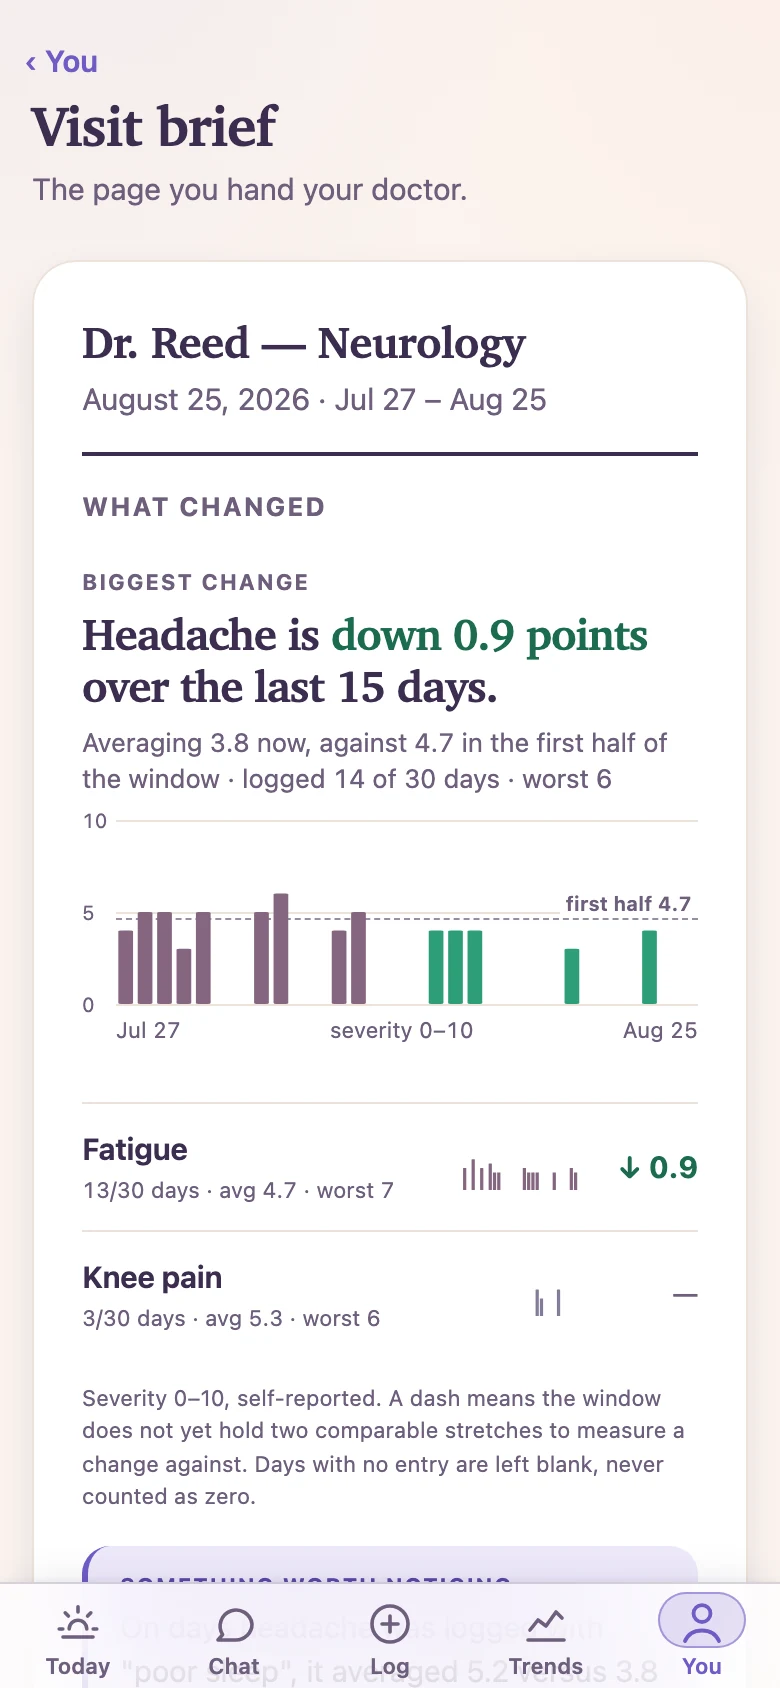
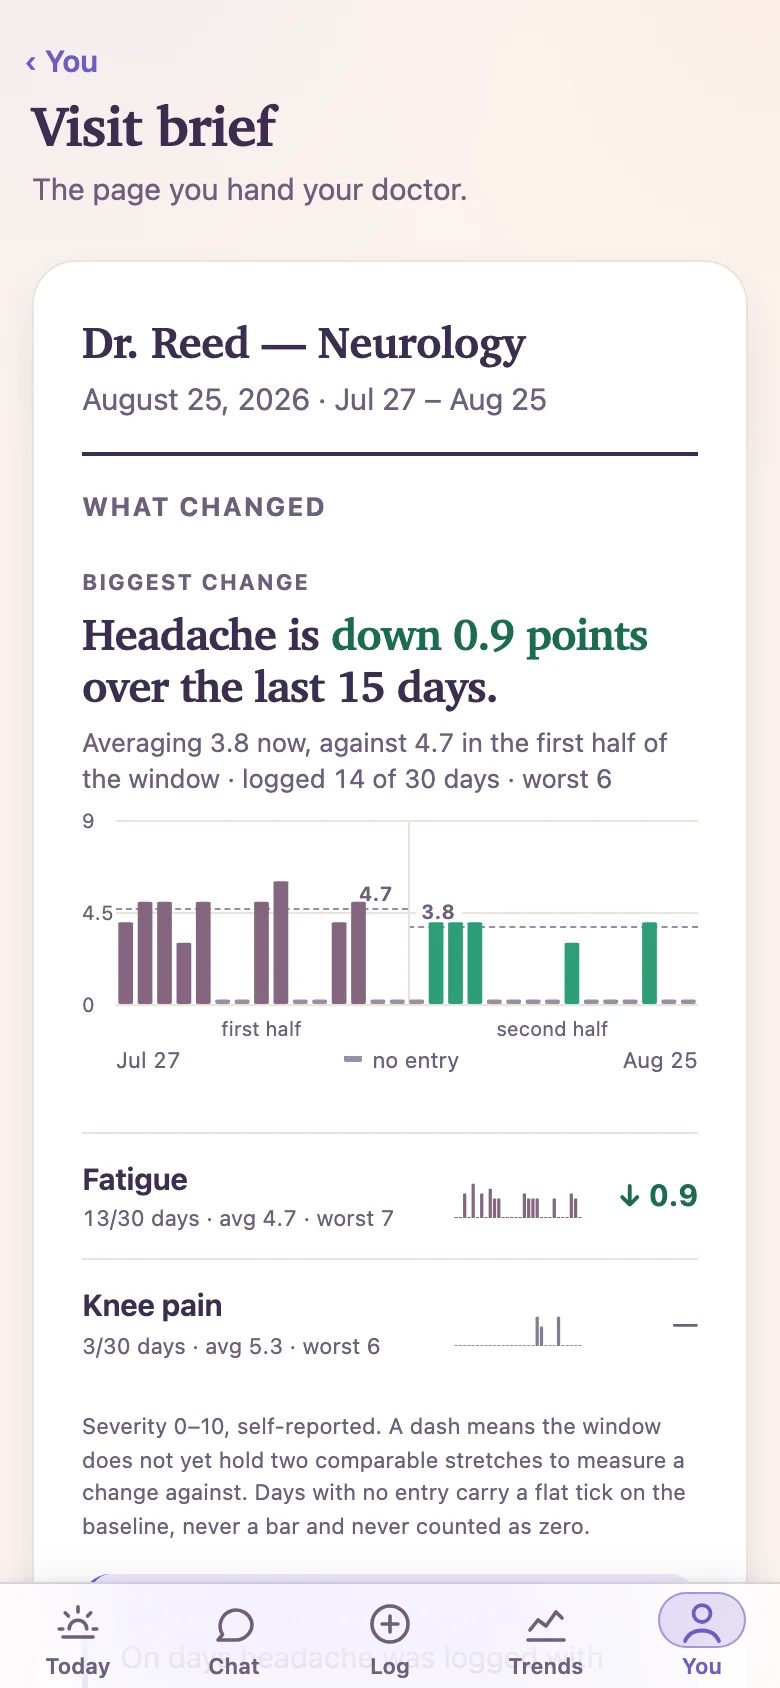
Rowan: re-shoot the brief and log, and correct the alt the chart outgrew
The visit brief's chart no longer runs one dashed rule at the FIRST half's
average across the whole window. Each half now draws its own — 4.7 then 3.8 —
over its own days, with a divider at the halfway point and a baseline tick on
days nobody logged, so the drop the headline states is a step you can see
rather than one you reconstruct. The axis is scaled from the record's worst day
instead of pinned at 10, which is what left 40% of the plot empty.

The alt still described the retired single line, which made it a claim about a
picture that had already changed under it. Rewritten to the marks actually in
the frame, and verified by reading the shipped webp back: "down 0.9 points",
4.7 over the purple half, 3.8 over the green one.

log/log-dark: the record tally read "days noted· 2 entries" — the separator's
leading space sat inside an inline-block, where a leading space is at the start
of its own line box and is collapsed.

Only these three of the fourteen shots moved; the rig re-rendered the rest
identically. ?v= bumped, because a cached webp is exactly as stale as no
re-shoot at all.

diff --git a/rowan/index.html b/rowan/index.html
@@ -852,23 +852,23 @@
 
       <div class="screens-grid">
         <div class="screen-card">
-          <div class="screen-frame"><img class="shot-img" src="shots/home.webp?v=20260825b" data-light="shots/home.webp?v=20260825b" data-dark="shots/home-dark.webp?v=20260825b" alt="Rowan's Today screen — a greeting, the next appointment, and today's medications" width="780" height="1688" loading="lazy"></div>
+          <div class="screen-frame"><img class="shot-img" src="shots/home.webp?v=20260826a" data-light="shots/home.webp?v=20260826a" data-dark="shots/home-dark.webp?v=20260826a" alt="Rowan's Today screen — a greeting, the next appointment, and today's medications" width="780" height="1688" loading="lazy"></div>
           <div class="screen-label"><strong>Today</strong>What's next, and what's due</div>
         </div>
         <div class="screen-card">
-          <div class="screen-frame"><img class="shot-img" src="shots/chat.webp?v=20260825b" data-light="shots/chat.webp?v=20260825b" data-dark="shots/chat-dark.webp?v=20260825b" alt="Rowan's chat screen with an AI companion indicator" width="780" height="1688" loading="lazy"></div>
+          <div class="screen-frame"><img class="shot-img" src="shots/chat.webp?v=20260826a" data-light="shots/chat.webp?v=20260826a" data-dark="shots/chat-dark.webp?v=20260826a" alt="Rowan's chat screen with an AI companion indicator" width="780" height="1688" loading="lazy"></div>
           <div class="screen-label"><strong>Chat</strong>Where a day becomes a log entry</div>
         </div>
         <div class="screen-card">
-          <div class="screen-frame"><img class="shot-img" src="shots/log.webp?v=20260825b" data-light="shots/log.webp?v=20260825b" data-dark="shots/log-dark.webp?v=20260825b" alt="Rowan's quick log — pick a symptom, choose a severity band, and add what might matter" width="780" height="1688" loading="lazy"></div>
+          <div class="screen-frame"><img class="shot-img" src="shots/log.webp?v=20260826a" data-light="shots/log.webp?v=20260826a" data-dark="shots/log-dark.webp?v=20260826a" alt="Rowan's quick log — pick a symptom, choose a severity band, and add what might matter" width="780" height="1688" loading="lazy"></div>
           <div class="screen-label"><strong>Quick log</strong>Thirty seconds, if you'd rather tap</div>
         </div>
         <div class="screen-card">
-          <div class="screen-frame"><img class="shot-img" src="shots/trends.webp?v=20260825b" data-light="shots/trends.webp?v=20260825b" data-dark="shots/trends-dark.webp?v=20260825b" alt="Rowan's trends screen — a per-day bar chart of headache severity with a 7-day average line over it, and a noticed pattern underneath" width="780" height="1688" loading="lazy"></div>
+          <div class="screen-frame"><img class="shot-img" src="shots/trends.webp?v=20260826a" data-light="shots/trends.webp?v=20260826a" data-dark="shots/trends-dark.webp?v=20260826a" alt="Rowan's trends screen — a per-day bar chart of headache severity with a 7-day average line over it, and a noticed pattern underneath" width="780" height="1688" loading="lazy"></div>
           <div class="screen-label"><strong>Trends</strong>A pattern, not a diagnosis</div>
         </div>
         <div class="screen-card">
-          <div class="screen-frame"><img class="shot-img" src="shots/conditions.webp?v=20260825b" data-light="shots/conditions.webp?v=20260825b" data-dark="shots/conditions-dark.webp?v=20260825b" alt="Rowan's conditions screen with diagnosed and suspected chips" width="780" height="1688" loading="lazy"></div>
+          <div class="screen-frame"><img class="shot-img" src="shots/conditions.webp?v=20260826a" data-light="shots/conditions.webp?v=20260826a" data-dark="shots/conditions-dark.webp?v=20260826a" alt="Rowan's conditions screen with diagnosed and suspected chips" width="780" height="1688" loading="lazy"></div>
           <div class="screen-label"><strong>Conditions</strong>Diagnosed, or just suspected</div>
         </div>
         <div class="screen-card">
@@ -881,7 +881,7 @@
                so a new user's second month was being scored against a stub of
                their first. No baseline beats a fake one, the picture no longer
                shows one, and the alt must not promise one. -->
-          <div class="screen-frame"><img class="shot-img" src="shots/recap.webp?v=20260825b" data-light="shots/recap.webp?v=20260825b" data-dark="shots/recap-dark.webp?v=20260825b" alt="Rowan's monthly recap — the month's most-logged symptom with its day count, the number of entries and days noted, and the factor that ran alongside the rougher days. Every figure is computed from the entries in the record." width="780" height="1688" loading="lazy"></div>
+          <div class="screen-frame"><img class="shot-img" src="shots/recap.webp?v=20260826a" data-light="shots/recap.webp?v=20260826a" data-dark="shots/recap-dark.webp?v=20260826a" alt="Rowan's monthly recap — the month's most-logged symptom with its day count, the number of entries and days noted, and the factor that ran alongside the rougher days. Every figure is computed from the entries in the record." width="780" height="1688" loading="lazy"></div>
           <div class="screen-label"><strong>Monthly recap</strong>One page of your month</div>
         </div>
       </div>
@@ -901,8 +901,14 @@
                never reinstate "Dr. Patel", which is the fabricated name from
                the App Review incident — and the per-symptom lines are stat
                blocks (DAYS / AVERAGE / WORST over per-day bars) since 627fa2e,
-               not the one-line sentences the old alt quoted. -->
-          <div class="screen-frame"><img src="shots/brief.webp?v=20260825b" alt="A Rowan visit brief for a neurology appointment — it opens with the biggest change stated in words, &quot;Headache is down 0.9 points over the last 15 days&quot;, over a per-day severity chart with the first half&#39;s average drawn across it, then the other symptoms as compact rows with their own change" width="780" height="1688" loading="lazy"></div>
+               not the one-line sentences the old alt quoted.
+               Re-shot 2026-08-26 and the alt moved AGAIN: the chart no longer
+               runs one rule at the first half's average across the whole
+               window. Each half draws its own — 4.7 then 3.8 — so the drop the
+               headline states is a step you can see. An alt describing the
+               retired single line was a claim about a picture that had already
+               changed under it. -->
+          <div class="screen-frame"><img src="shots/brief.webp?v=20260826a" alt="A Rowan visit brief for a neurology appointment — it opens with the biggest change stated in words, &quot;Headache is down 0.9 points over the last 15 days&quot;, over a per-day severity chart that draws each half of the window at its own average, 4.7 then 3.8, with the days nobody logged marked on the baseline, then the other symptoms as compact rows with their own change" width="780" height="1688" loading="lazy"></div>
         </div>
         <div>
           <div class="section-eyebrow">The hero artifact</div>
@@ -1033,7 +1039,7 @@
           <!-- No shot-img class or data-dark here: the light/dark toggle is
                scoped to the #screens section (whose backdrop darkens with it);
                this shot sits in a section that stays light, so it stays light. -->
-          <div class="screen-frame"><img src="shots/memory.webp?v=20260825b" alt="Rowan’s “What Rowan knows” card — the plain list of notes Rowan keeps about you, an “Edit these notes” button, “Clear these notes” underneath, and an “Always in context” note listing everything Rowan sees — the notes, your conditions, medications and allergies, recent entries, the name you gave Rowan, your device language and today’s date — and saying the notes are stored on the device, not kept on the server, but sent with each message and so reaching the AI provider" width="716" height="1772" loading="lazy"></div>
+          <div class="screen-frame"><img src="shots/memory.webp?v=20260826a" alt="Rowan’s “What Rowan knows” card — the plain list of notes Rowan keeps about you, an “Edit these notes” button, “Clear these notes” underneath, and an “Always in context” note listing everything Rowan sees — the notes, your conditions, medications and allergies, recent entries, the name you gave Rowan, your device language and today’s date — and saying the notes are stored on the device, not kept on the server, but sent with each message and so reaching the AI provider" width="716" height="1772" loading="lazy"></div>
         </div>
       </div>
     </div>
